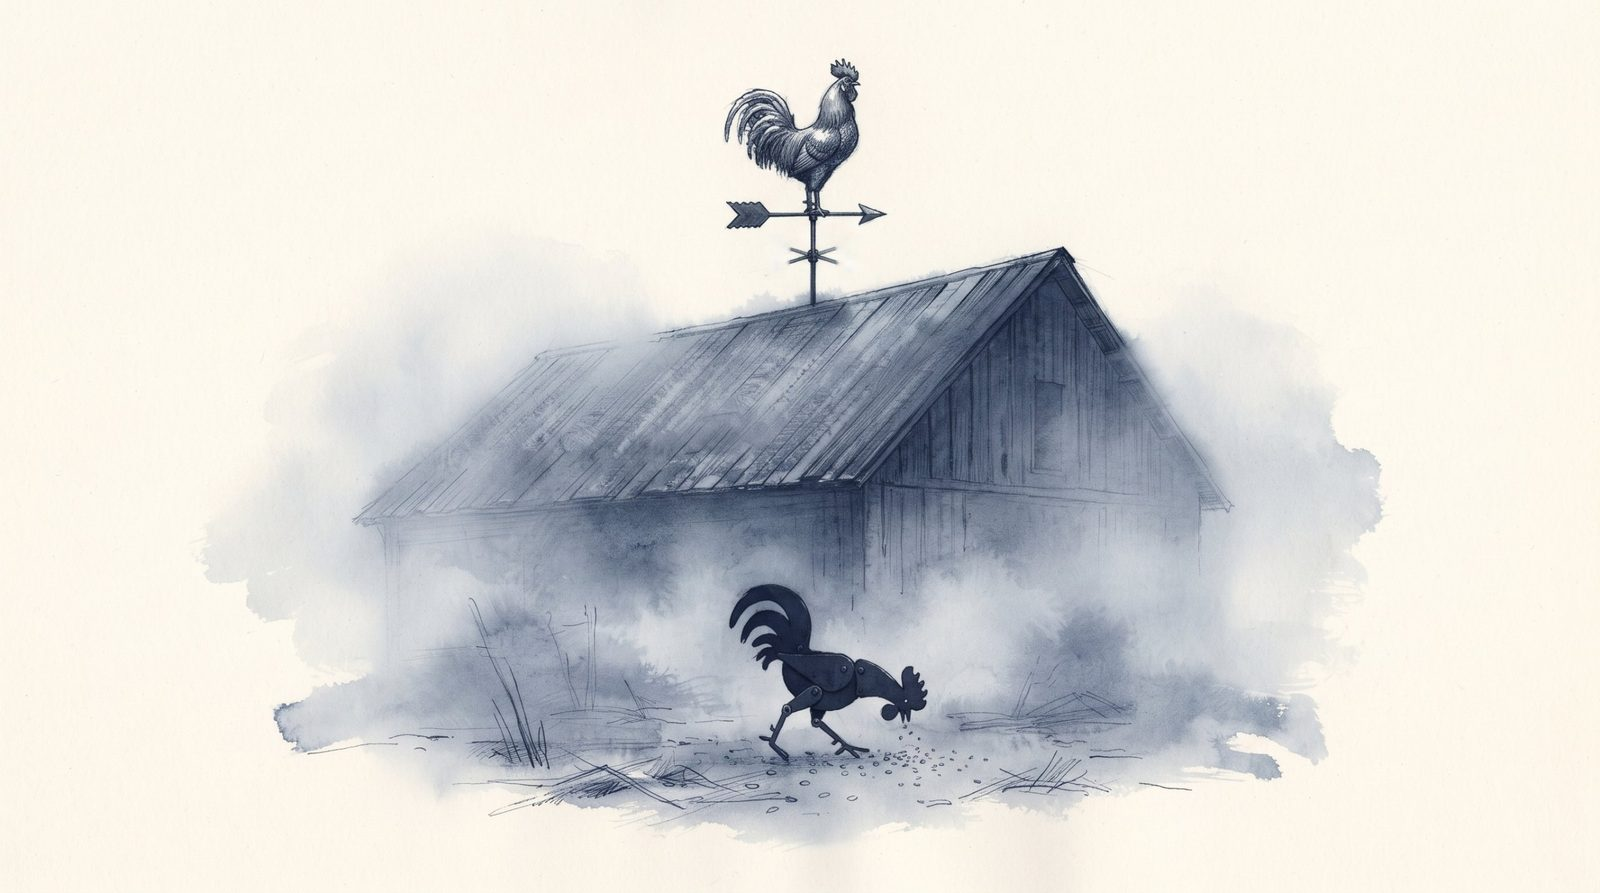
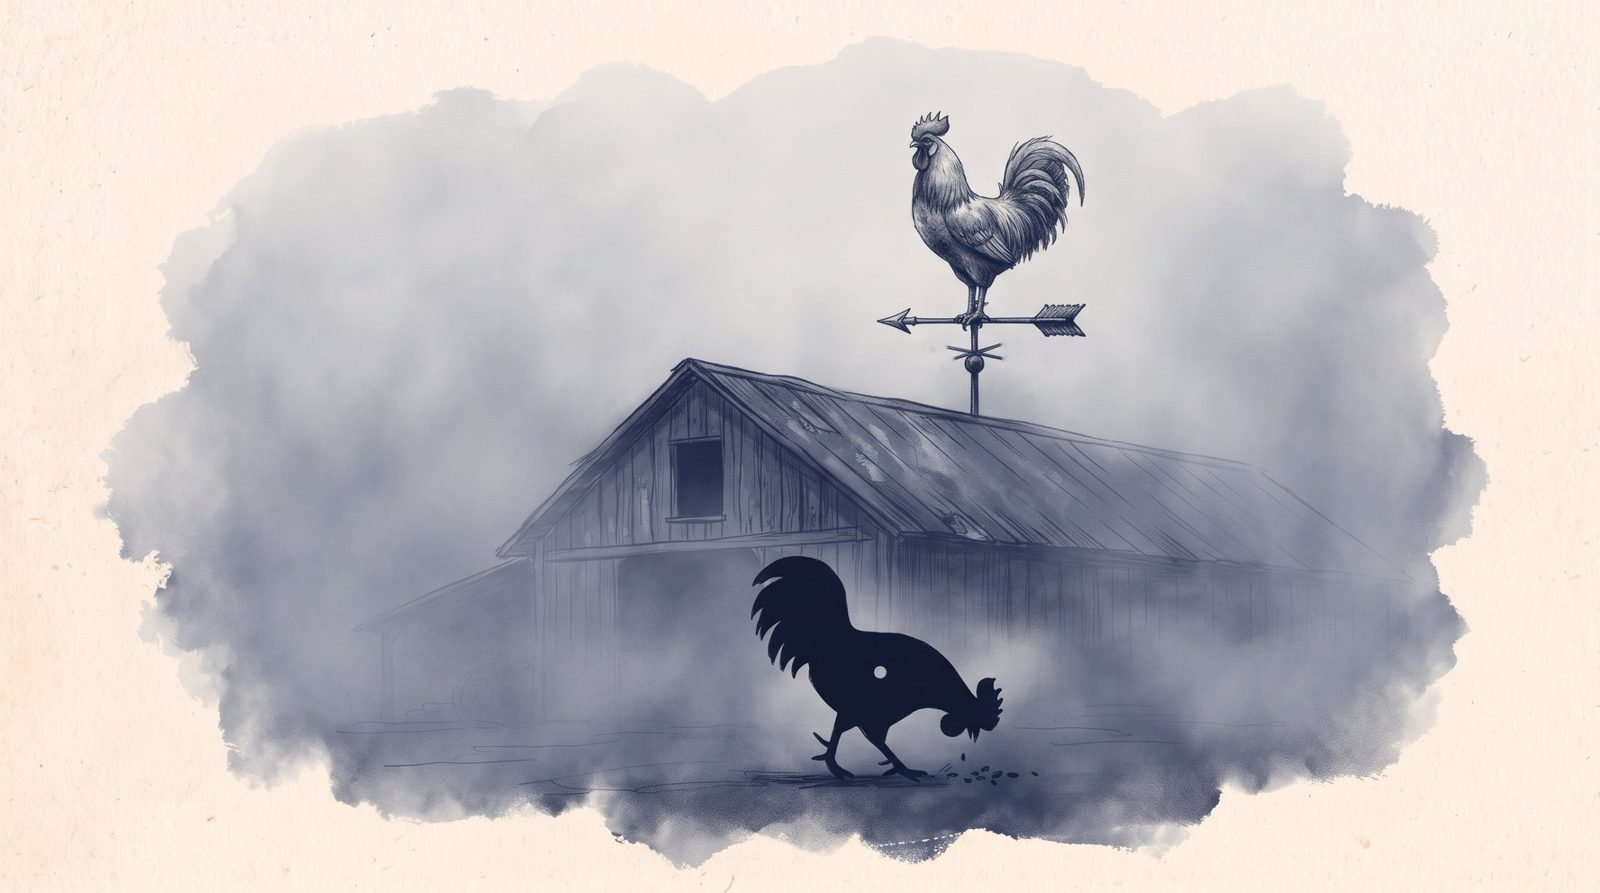
Kopie bez originálu: nový kohout ve stylu, dole plochý plechový kohout s dírou po čepu
Claude-Session: https://claude.ai/code/session_01B7obWLKHHEWxurZ5a1svnf

diff --git a/docs/obrazky-putovani.md b/docs/obrazky-putovani.md
@@ -25,7 +25,7 @@ Stav 2026-11-23: styl nalezený po pěti kolech zkoušek (náhled `/putovani/nav
 - Masky: `maska/<slug>-N.png` podle tuše pro tmavý motiv (`python3 scripts/ink-masks.py`, pak zkopírovat z `navrh-obrazku/maska/`, nebo upravit cestu ve skriptu), `maska/freska.png` obecná.
 - Které putování obrázky má: `READY` v `src/lib/trail-images.ts`. Obrázky se ukážou jen u schválené eseje.
 - Rejstřík `/putovani/` má rozvržení karet ve dvou sloupcích s obrázkem nahoře (C, vybráno ze tří variant: A obraz za textem, B střídavé desky). Dokud nemají obrázky všechna putování, stojí vedle karty s obrázkem textové karty.
-- Na webu (2026-11-23): Hra ví, že ji hraješ (městečko na jevišti s roztrženým namalovaným nebem; postavička vylezlá z ilustrace v knize; stín, který vypadl z obrazu na podlahu); Na mrtvole boha (tři: prázdný plášť na trůnu držený provazy davu; trůn, kterým prorůstá bříza; jablko s žebry místo jádřince); Netvor v zrcadle (zatím jeden: stopy ve sněhu, které se z bot mění v tlapy); Mluví už jen mrtví (tři: prázdný kabát, který ukazuje cestu; můra s křídly z deníku; potopená hlava sochy, z níž stoupají listy dopisu k loďce); Uvězněni v kruhu (tři: klíč stočený do kruhu se stínem rovného klíče; vajíčko ve vajíčku; z kouře dohořelé sirky nová sirka); Bohové jako břemeno (katedrála ze žeber, kamenné víčko); Město, které dýchá (domy, které se otáčejí za chodcem; most z dlažby, kořenů, copů a prádla); Dům, ze kterého nejde odejít (měsíc jako zlatá klíčová dírka nad městečkem, okno uprostřed pláně s pokojem uvnitř). Válka, kterou nikdo nevyhraje (tři obrázky: prapory z hejn ptáků, kolotoč z děl, kavalerie z rozbitých hodin se svíčkou v temnu); Pod lhostejnými hvězdami (žebřík opřený o nebe s prázdnými botami a lucernou, gramofon, ze kterého se sypou hvězdy, u táboráku); Kdo za to může? (tři: prázdná rukavice ukazuje na zrcátko a odraz ukazuje zpět na diváka; koberec, pod jehož rohem je jáma se schody a koště z brků; z hranice srolovaných dopisů odplouvá kouř jako spící beránek, 2026-11-25); Kdo se to probudil? (tři: zamlžené zrcadlo nad umyvadlem, v jehož setřeném pruhu je další zrcadlo; dvě stejná křesla v pokoji rozděleném sklem, které prochází mincí na hraně; sklenice s pulcem, jehož stín na zdi jsou chapadla; 2026-11-25); Prokleté dědictví (tři: kolébka s korunou, jejíž stín je rakev, křížek na koruně vyretušovaný; řetěz z praskliny v zemi s otevřeným dětským poutem, hnědý nádech řetězu převedený do indiga; šperkovnice s náhrdelníkem z mléčných zubů; 2026-11-25); Křehká hranice svobodné vůle (tři: koleje shora, které se u výhybky rozdělí a zase spojí kolem kulatého jezírka, takže tvoří oko; prázdný obojek s vodítkem napnutým do mraků; trhací kalendář s prázdnými listy, jeden právě utržený, původně k jinému tématu, majitel ho přidal; 2026-11-25); Ráj, který se nepovedl (tři, poprvé celky místo předmětu, na pokyn majitele velký motiv a paradox: monumentální schodiště, které se v oblouku vrací zpátky do země (titulní, majitel 2026-11-26); nekonečně dlouhý prostřený stůl v poušti, zavátý dunou; vymyšlený zazděný oblouk se sluncem, kolem jehož boku je v dlažbě vyšlapaná pěšina; 2026-11-25); Logo nad troskami (tři, satira: atomový hřib ztuhlý v kancelářskou budovu s otáčecími dveřmi a ostříhaným trávníkem v troskách; hřbitov, kde místo náhrobků stojí parkovací automaty; opuštěný vozík prodavače mraků na provázcích s prázdnými cenovkami pod holým nebem; 2026-11-26); Smích nad propastí (tři: banánová slupka na samé hraně útesu nad propastí; ostnatý plot se strážní věží vyzdobený girlandami a balonky, jeden balonek splasklý na ostnu; prstem nakreslený úsměv na zamlženém okénku bunkru, ze kterého stéká kondenzace; 2026-11-26); Kdo drží kroniku (tři, satira dějin: jezdecká socha bez hlavy, jeřáb spouští novou hlavu a vedle stojí regál s osmi různými náhradními hlavami; stohy na poli ze skartovaného papíru a skartovačka; psací stroj, jehož papír plynule přechází v cestu krajinou, s ukazatelem ve směru papíru (nakonec nová verze od majitele, kde papír na cestu navazuje sám); 2026-11-26); Kopie bez originálu (tři: dva stejné měsíce nad jezerem, které odráží jen jeden, uprostřed (odraz ručně nahrazený zrcadlenou kopií měsíce, aby seděl); pampeliška, od které místo semínek odlétají malé celé pampelišky a od nich ještě menší; živý kohout ztuhlý na korouhvi a plechový kohout zobající na dvoře (písmena světových stran vyretušovaná); 2026-11-26). Postup: 5 motivů, vybrat 2. **Motivy: surrealismus a neobvyklé kompozice, klidně velké měřítko a zachycený pohyb (Magritte, Dalí), neobvyklé spojení předmětů (v duchu Magritta), jen lehce doslovné** — první kolo s doslovnými motivy (tapeta, dveře, kolébka) majitel zamítl jako nenápadité. Do promptu řádek `Mood: subtle surrealism in the spirit of Magritte: one unexpected combination, quiet and uncanny, never literal or explanatory. Rich in discoverable detail: several unexpected secondary motifs are woven into the main forms, so the viewer keeps finding new things on a second look.` Po přidání prvního obrázku obnovit kartu pro sdílení: `npm run og -- <slug> putovani` (fonty a Chromium viz CLAUDE.md). Masky: `python3 scripts/ink-masks.py public/putovani-obrazky/<slug>-1.jpg …`; když je světlý papír uprostřed součástí motivu (mezera mezi konci mostu), přidej `--fill`. Skript dělá dvě masky: `<soubor>.png` pro tmavý motiv a širokou `<soubor>-light.png` pro světlý (papír tam schová multiply a lehké vybělení `brightness(1.06) saturate(0.8)`, maska nesmí zamlžit slabé tahy; majitel 2026-11-23). Ve světlém motivu se v eseji kresba ořezává jen širokou maskou (fresková by ořízla tahy štětce nahoře a stopy u spodního okraje); v tmavém motivu (esej i rejstřík) jen fresková maska: tvar je vždy **zvlněný obdélník do ztracena**, nikdy vykrojený podle skvrn tuše (majitel 2026-11-23). Zkoušený okraj podle tahů štětce se světlým lemem majitel zamítl jako „příliš“: v tmavém motivu okraje nebudou tak působivé jako ve světlém a je to tak správně; v rejstříku zůstává i fresková (obrázek je tam oříznutý na 3 : 2).
+- Na webu (2026-11-23): Hra ví, že ji hraješ (městečko na jevišti s roztrženým namalovaným nebem; postavička vylezlá z ilustrace v knize; stín, který vypadl z obrazu na podlahu); Na mrtvole boha (tři: prázdný plášť na trůnu držený provazy davu; trůn, kterým prorůstá bříza; jablko s žebry místo jádřince); Netvor v zrcadle (zatím jeden: stopy ve sněhu, které se z bot mění v tlapy); Mluví už jen mrtví (tři: prázdný kabát, který ukazuje cestu; můra s křídly z deníku; potopená hlava sochy, z níž stoupají listy dopisu k loďce); Uvězněni v kruhu (tři: klíč stočený do kruhu se stínem rovného klíče; vajíčko ve vajíčku; z kouře dohořelé sirky nová sirka); Bohové jako břemeno (katedrála ze žeber, kamenné víčko); Město, které dýchá (domy, které se otáčejí za chodcem; most z dlažby, kořenů, copů a prádla); Dům, ze kterého nejde odejít (měsíc jako zlatá klíčová dírka nad městečkem, okno uprostřed pláně s pokojem uvnitř). Válka, kterou nikdo nevyhraje (tři obrázky: prapory z hejn ptáků, kolotoč z děl, kavalerie z rozbitých hodin se svíčkou v temnu); Pod lhostejnými hvězdami (žebřík opřený o nebe s prázdnými botami a lucernou, gramofon, ze kterého se sypou hvězdy, u táboráku); Kdo za to může? (tři: prázdná rukavice ukazuje na zrcátko a odraz ukazuje zpět na diváka; koberec, pod jehož rohem je jáma se schody a koště z brků; z hranice srolovaných dopisů odplouvá kouř jako spící beránek, 2026-11-25); Kdo se to probudil? (tři: zamlžené zrcadlo nad umyvadlem, v jehož setřeném pruhu je další zrcadlo; dvě stejná křesla v pokoji rozděleném sklem, které prochází mincí na hraně; sklenice s pulcem, jehož stín na zdi jsou chapadla; 2026-11-25); Prokleté dědictví (tři: kolébka s korunou, jejíž stín je rakev, křížek na koruně vyretušovaný; řetěz z praskliny v zemi s otevřeným dětským poutem, hnědý nádech řetězu převedený do indiga; šperkovnice s náhrdelníkem z mléčných zubů; 2026-11-25); Křehká hranice svobodné vůle (tři: koleje shora, které se u výhybky rozdělí a zase spojí kolem kulatého jezírka, takže tvoří oko; prázdný obojek s vodítkem napnutým do mraků; trhací kalendář s prázdnými listy, jeden právě utržený, původně k jinému tématu, majitel ho přidal; 2026-11-25); Ráj, který se nepovedl (tři, poprvé celky místo předmětu, na pokyn majitele velký motiv a paradox: monumentální schodiště, které se v oblouku vrací zpátky do země (titulní, majitel 2026-11-26); nekonečně dlouhý prostřený stůl v poušti, zavátý dunou; vymyšlený zazděný oblouk se sluncem, kolem jehož boku je v dlažbě vyšlapaná pěšina; 2026-11-25); Logo nad troskami (tři, satira: atomový hřib ztuhlý v kancelářskou budovu s otáčecími dveřmi a ostříhaným trávníkem v troskách; hřbitov, kde místo náhrobků stojí parkovací automaty; opuštěný vozík prodavače mraků na provázcích s prázdnými cenovkami pod holým nebem; 2026-11-26); Smích nad propastí (tři: banánová slupka na samé hraně útesu nad propastí; ostnatý plot se strážní věží vyzdobený girlandami a balonky, jeden balonek splasklý na ostnu; prstem nakreslený úsměv na zamlženém okénku bunkru, ze kterého stéká kondenzace; 2026-11-26); Kdo drží kroniku (tři, satira dějin: jezdecká socha bez hlavy, jeřáb spouští novou hlavu a vedle stojí regál s osmi různými náhradními hlavami; stohy na poli ze skartovaného papíru a skartovačka; psací stroj, jehož papír plynule přechází v cestu krajinou, s ukazatelem ve směru papíru (nakonec nová verze od majitele, kde papír na cestu navazuje sám); 2026-11-26); Kopie bez originálu (tři: dva stejné měsíce nad jezerem, které odráží jen jeden, uprostřed (odraz ručně nahrazený zrcadlenou kopií měsíce, aby seděl); pampeliška, od které místo semínek odlétají malé celé pampelišky a od nich ještě menší; živý kohout ztuhlý na korouhvi a plochý plechový kohout s dírou po čepu zobající na dvoře (druhá verze; písmena světových stran vyretušovaná); 2026-11-26). Postup: 5 motivů, vybrat 2. **Motivy: surrealismus a neobvyklé kompozice, klidně velké měřítko a zachycený pohyb (Magritte, Dalí), neobvyklé spojení předmětů (v duchu Magritta), jen lehce doslovné** — první kolo s doslovnými motivy (tapeta, dveře, kolébka) majitel zamítl jako nenápadité. Do promptu řádek `Mood: subtle surrealism in the spirit of Magritte: one unexpected combination, quiet and uncanny, never literal or explanatory. Rich in discoverable detail: several unexpected secondary motifs are woven into the main forms, so the viewer keeps finding new things on a second look.` Po přidání prvního obrázku obnovit kartu pro sdílení: `npm run og -- <slug> putovani` (fonty a Chromium viz CLAUDE.md). Masky: `python3 scripts/ink-masks.py public/putovani-obrazky/<slug>-1.jpg …`; když je světlý papír uprostřed součástí motivu (mezera mezi konci mostu), přidej `--fill`. Skript dělá dvě masky: `<soubor>.png` pro tmavý motiv a širokou `<soubor>-light.png` pro světlý (papír tam schová multiply a lehké vybělení `brightness(1.06) saturate(0.8)`, maska nesmí zamlžit slabé tahy; majitel 2026-11-23). Ve světlém motivu se v eseji kresba ořezává jen širokou maskou (fresková by ořízla tahy štětce nahoře a stopy u spodního okraje); v tmavém motivu (esej i rejstřík) jen fresková maska: tvar je vždy **zvlněný obdélník do ztracena**, nikdy vykrojený podle skvrn tuše (majitel 2026-11-23). Zkoušený okraj podle tahů štětce se světlým lemem majitel zamítl jako „příliš“: v tmavém motivu okraje nebudou tak působivé jako ve světlém a je to tak správně; v rejstříku zůstává i fresková (obrázek je tam oříznutý na 3 : 2).
 
 ## Jak generovat
 
